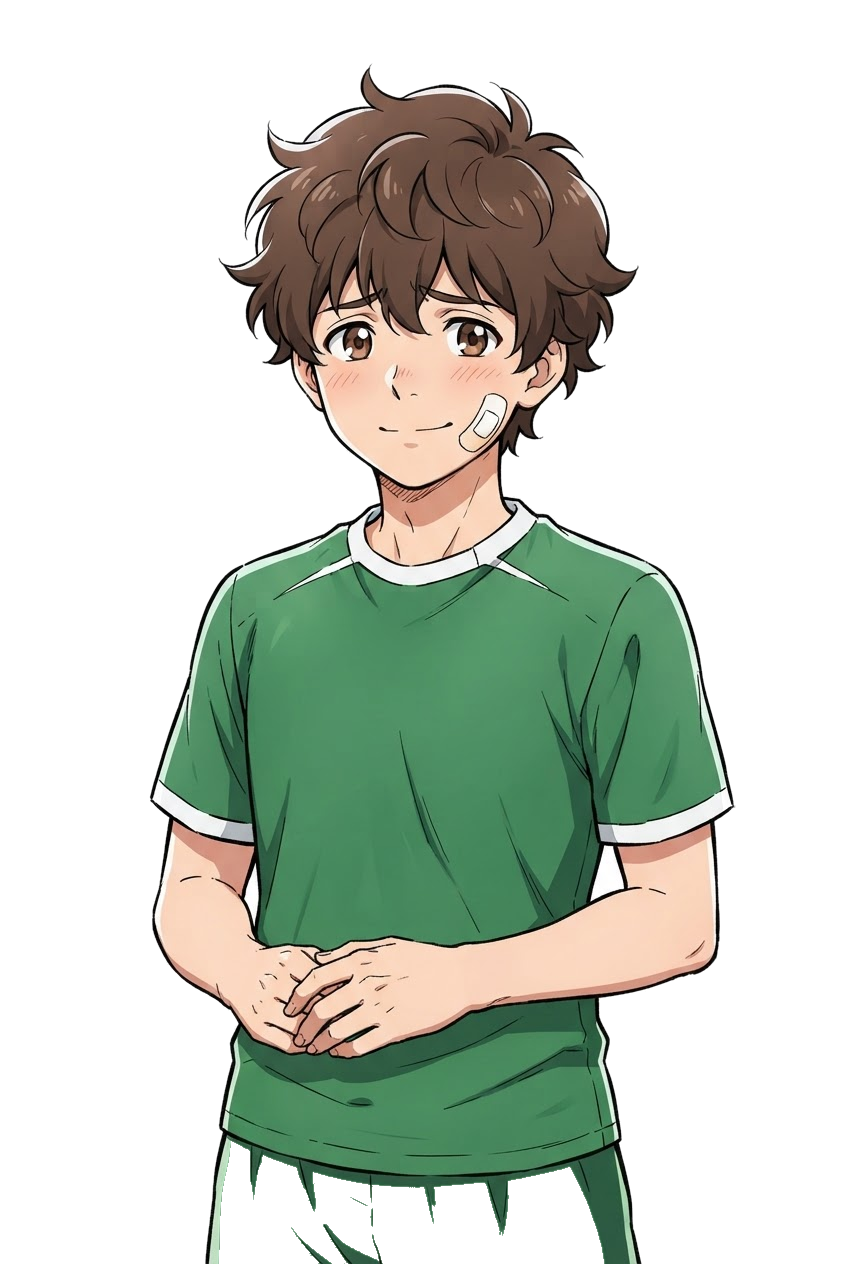
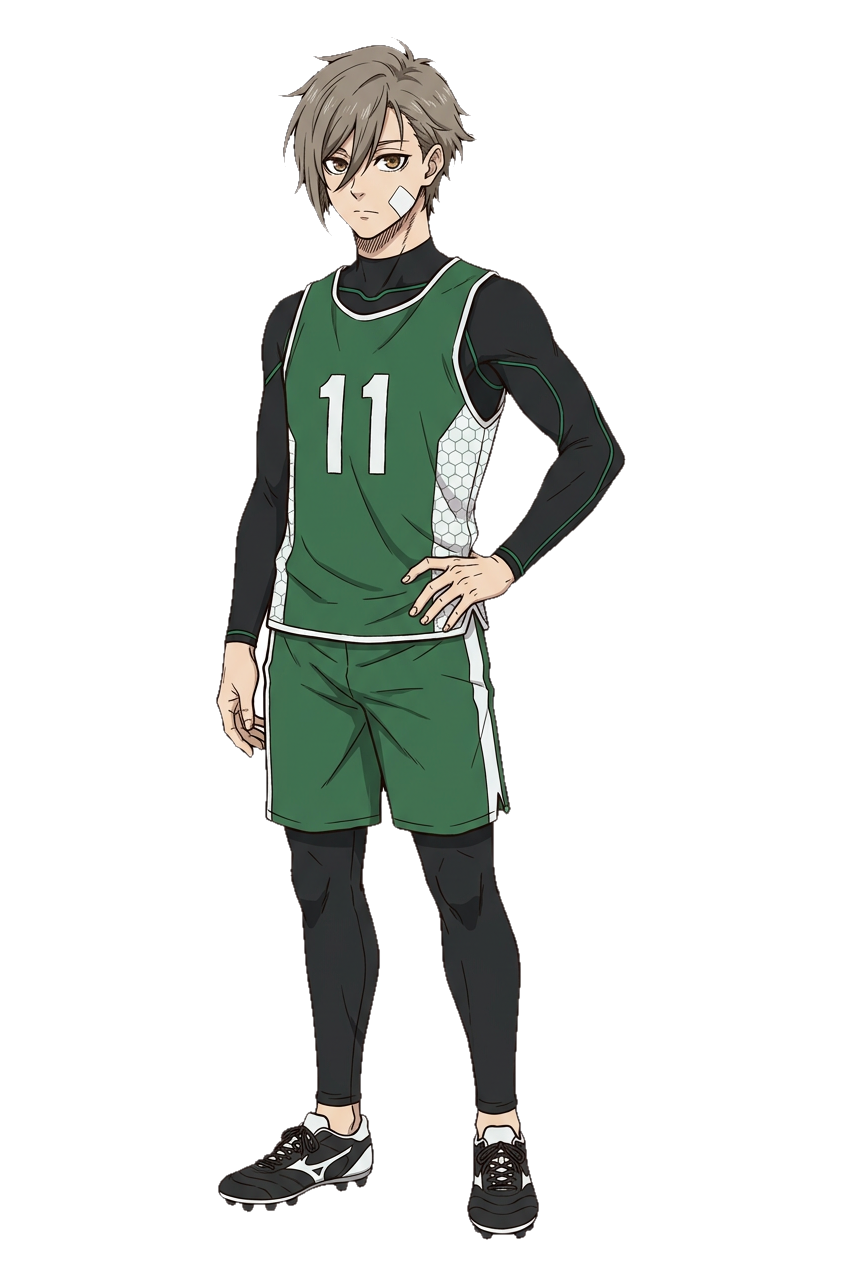
Add the original cast art (8 characters), cutout tool, TV-anime style sheet
Full-body standing sheets for sora, reiji, mio, haruka, dante, lukas, tomas, kisaragi (all original
characters), background removed and framed 2:3 via scripts/cutout.py, wired in by assets:scan.
docs/ART_STYLE.md records the style block and per-character descriptions that produced them.

Claude-Session: https://claude.ai/code/session_01UBJep7mcSddW7hgnbiyTom

diff --git a/scripts/cutout.py b/scripts/cutout.py
@@ -1,0 +1,73 @@
+#!/usr/bin/env python3
+"""Cut a solid-white background out of a character image and frame it for the game.
+
+  python3 scripts/cutout.py input.png output.png          # one file
+  python3 scripts/cutout.py inputs_dir/ public/assets/portraits/   # a folder (uses file names as ids)
+
+Removes white regions that touch the border AND large enclosed white pockets (e.g. between an arm and the torso).
+Small white details inside the character (jersey numbers, stripes, highlights) are kept. Output is a transparent PNG
+cropped to the character and padded to 2:3 with the head near the top. Requires Pillow (`pip install pillow`).
+"""
+import sys
+from collections import deque
+from pathlib import Path
+from PIL import Image, ImageFilter
+
+WHITE = 246          # a pixel is "white" when all channels >= this
+MIN_POCKET = 2500    # enclosed white regions at least this many pixels are background too
+
+
+def cutout(src: Path, dst: Path) -> None:
+    im = Image.open(src).convert('RGB')
+    w, h = im.size
+    data = im.tobytes()
+    white = bytearray(1 if data[i] >= WHITE and data[i + 1] >= WHITE and data[i + 2] >= WHITE else 0 for i in range(0, len(data), 3))
+    remove = bytearray(w * h)
+    seen = bytearray(w * h)
+    for start in range(w * h):
+        if not white[start] or seen[start]:
+            continue
+        comp, touches = [], False
+        q = deque([start])
+        seen[start] = 1
+        while q:
+            p = q.popleft()
+            comp.append(p)
+            x, y = p % w, p // w
+            if x == 0 or y == 0 or x == w - 1 or y == h - 1:
+                touches = True
+            for n in ((p - 1) if x else -1, (p + 1) if x < w - 1 else -1, (p - w) if y else -1, (p + w) if y < h - 1 else -1):
+                if n >= 0 and white[n] and not seen[n]:
+                    seen[n] = 1
+                    q.append(n)
+        if touches or len(comp) >= MIN_POCKET:
+            for p in comp:
+                remove[p] = 1
+    alpha = Image.frombytes('L', (w, h), bytes(0 if r else 255 for r in remove))
+    alpha = alpha.filter(ImageFilter.MinFilter(3)).filter(ImageFilter.GaussianBlur(0.7))  # trim the white halo, soften the edge
+    rgba = im.convert('RGBA')
+    rgba.putalpha(alpha)
+    box = alpha.point(lambda v: 255 if v > 24 else 0).getbbox()
+    if box:
+        rgba = rgba.crop(box)
+    cw, ch = rgba.size
+    # pad to 2:3, character centred horizontally, ~3% margin at the top (head near the top of the frame)
+    top = int(ch * 0.03)
+    height = max(ch + top + int(ch * 0.02), int(cw * 1.5))
+    width = int(height * 2 / 3)
+    canvas = Image.new('RGBA', (width, height), (255, 255, 255, 0))
+    canvas.paste(rgba, ((width - cw) // 2, top), rgba)
+    dst.parent.mkdir(parents=True, exist_ok=True)
+    canvas.save(dst)
+    print(f'{src.name}: {w}x{h} -> {canvas.size[0]}x{canvas.size[1]}, removed {sum(remove) * 100 // (w * h)}% as background')
+
+
+if __name__ == '__main__':
+    if len(sys.argv) != 3:
+        sys.exit(__doc__)
+    a, b = Path(sys.argv[1]), Path(sys.argv[2])
+    if a.is_dir():
+        for f in sorted(a.glob('*.png')) + sorted(a.glob('*.jpg')):
+            cutout(f, b / (f.stem + '.png'))
+    else:
+        cutout(a, b)

diff --git a/docs/ART_STYLE.md b/docs/ART_STYLE.md
@@ -1,22 +1,26 @@
-# Art style sheet (for original characters)
+# Art style sheet (original characters)
 
-Use one fixed style block for every generation so the cast looks consistent, and so your own imports sit comfortably next to them. These prompts are for the **original** characters (and your player), not for characters from existing series.
+The look: **modern TV-anime production quality, gritty sports-anime**. This is the style block that produced the current cast (full-body standing sheets, one per character). Paste it before every character description so new characters match.
 
-## Style block (paste before every character prompt)
-> Original character, anime sports-drama style, clean confident ink linework with slightly varying line weight, cel shading with one flat shadow tone and a small rim highlight, saturated but not neon palette, expressive large eyes, defined hair strands in 3–4 clumps, simple football (soccer) training kit with one team colour and one accent, front-facing three-quarter view, waist-up, head near the top of the frame, neutral studio pose, plain solid white background (no scenery, no text, no logo), full figure centered, 2:3 portrait.
+## Style block
+> Original character, full-body standing character-design sheet in modern TV-anime production quality (gritty sports-anime): clean thin dark-brown ink linework with subtle line-weight variation, flat matte cel colours with a single soft shadow layer, short ink hatching lines under the jaw and along the neck, large expressive eyes with layered white highlights and a defined upper lash line, finely drawn hands with visible knuckles and fingernails, realistic athletic proportions about 8 heads tall, detailed fabric folds.
 
-Generate at 1200×1800 (or the closest 2:3), then remove the background to PNG. Keep head size and position identical across the set. Generate expression variants by re-using the same prompt and changing only: "expression: furious / smirking / shocked / despairing".
+**Per-character line:** `Character: <name>, <age>, <build>, <hair>, <eyes>, <expression>. Outfit: <kit with colours, panel pattern, number>.`
+**Pose and framing line:** `Standing <pose>, facing three-quarters to the viewer, entire body visible head to boots, plain solid white background, no text, no logo, no other characters, no scenery.`
+Generate at 1000×1500 (2:3). Keep one team colour + one accent per kit; give each character a distinct silhouette (hair shape, pose, build).
 
-## Characters
-- **sora**: Sora Kaizuka. Gentle 17-year-old left winger, soft messy brown hair, kind worried eyes, small bandage on his cheek, green training kit.
-- **reiji**: Reiji Hasegawa. Polished academy captain, neat swept sandy-blond hair, narrow confident eyes, slight smirk, deep blue kit with white trim.
-- **mio**: Mio Tachibana. Young sports journalist, curly auburn hair, freckles, press lanyard and camera around the neck, white shirt with red scarf (no kit).
-- **haruka**: Haruka Shirane. Player's younger sister, long black hair in a loose ponytail, teasing smile, casual hoodie in pale blue.
-- **dante**: Dante Cavalli. Italian defender, dark curly hair, strong brows, a beauty mark by the mouth, composed gaze, green and white kit.
-- **lukas**: Lukas Brandt. German forward, short pale-blond hair, sharp pale-blue eyes, emotionless expression, black kit with red accent.
-- **tomas**: Tomás Ferreira. Spanish midfielder, long dark hair tied back, sleepy amused eyes, red kit with gold accent.
-- **kisaragi**: Ayame Kisaragi. Sponsor executive, sleek crimson bob haircut, sharp tailored black suit, confident smile (no kit).
-- **player presets**: lean / mid / broad builds; spiky, swept, shaggy and buzz hair; keep every other rule in the style block.
+## Cutting out and importing
+`pip install pillow`, then `python3 scripts/cutout.py <raw images dir> public/assets/portraits/` (removes the white background, including enclosed gaps, crops, pads to 2:3). Name inputs `<characterId>.png`. Then `npm run assets:scan`.
 
-## Consistency checklist
-Same head height and eye line · same line weight · same shadow tone · white background removed to transparency · no text or logos · file named `<id>.png`.
+## Variations per character (optional)
+The game supports `<id>_<emotion>.png` (`neutral smirk furious shocked despair flow metavision devoured`) next to the default `<id>.png`. Close-up and action frames work as `_smirk` / `_furious` variants. Separate text-to-image calls drift a little; for tight consistency generate variants from the approved image with an image-edit model.
+
+## Original cast (descriptions used)
+- **sora**: Sora Kaizuka, 17, left winger. Ash-brown side-swept messy hair with a longer fringe over the right eye, amber eyes, small bandage on the left cheek, calm guarded expression. Forest-green bib, white hexagon side panels, number 11, black compression top/leggings.
+- **reiji**: Reiji Hasegawa, 17, academy captain. Neat swept sandy-blond hair, narrow blue-grey eyes, polished smirk. Deep-blue bib with white trim, number 10. Arms crossed.
+- **mio**: Mio Tachibana, 24, journalist. Shoulder-length curly auburn hair, freckles, hazel eyes. White shirt, red scarf, press lanyard, camera, notebook.
+- **haruka**: Haruka Shirane, 15, the player's sister. Black side ponytail, side bangs, teasing smirk. Pale-blue oversized hoodie, grey joggers.
+- **dante**: Dante Cavalli, 18, Italian centre-back. Dark curly swept-back hair, thick brows, beauty mark by the mouth. White bib with a green-and-red sash, number 5.
+- **lukas**: Lukas Brandt, 18, German forward. Cropped platinum-blond hair, cold pale-blue eyes, no expression. Black bib with red geometric stripes, number 9.
+- **tomas**: Tomás Ferreira, 18, Spanish midfielder. Long dark hair tied low, sleepy amused eyes, light stubble. Red bib with a gold diamond panel, number 8.
+- **kisaragi**: Ayame Kisaragi, 32, sponsor executive. Sleek crimson bob with straight fringe, sharp eyes, confident smile. Black tailored pantsuit, white blouse, red lapel pin, tablet.
